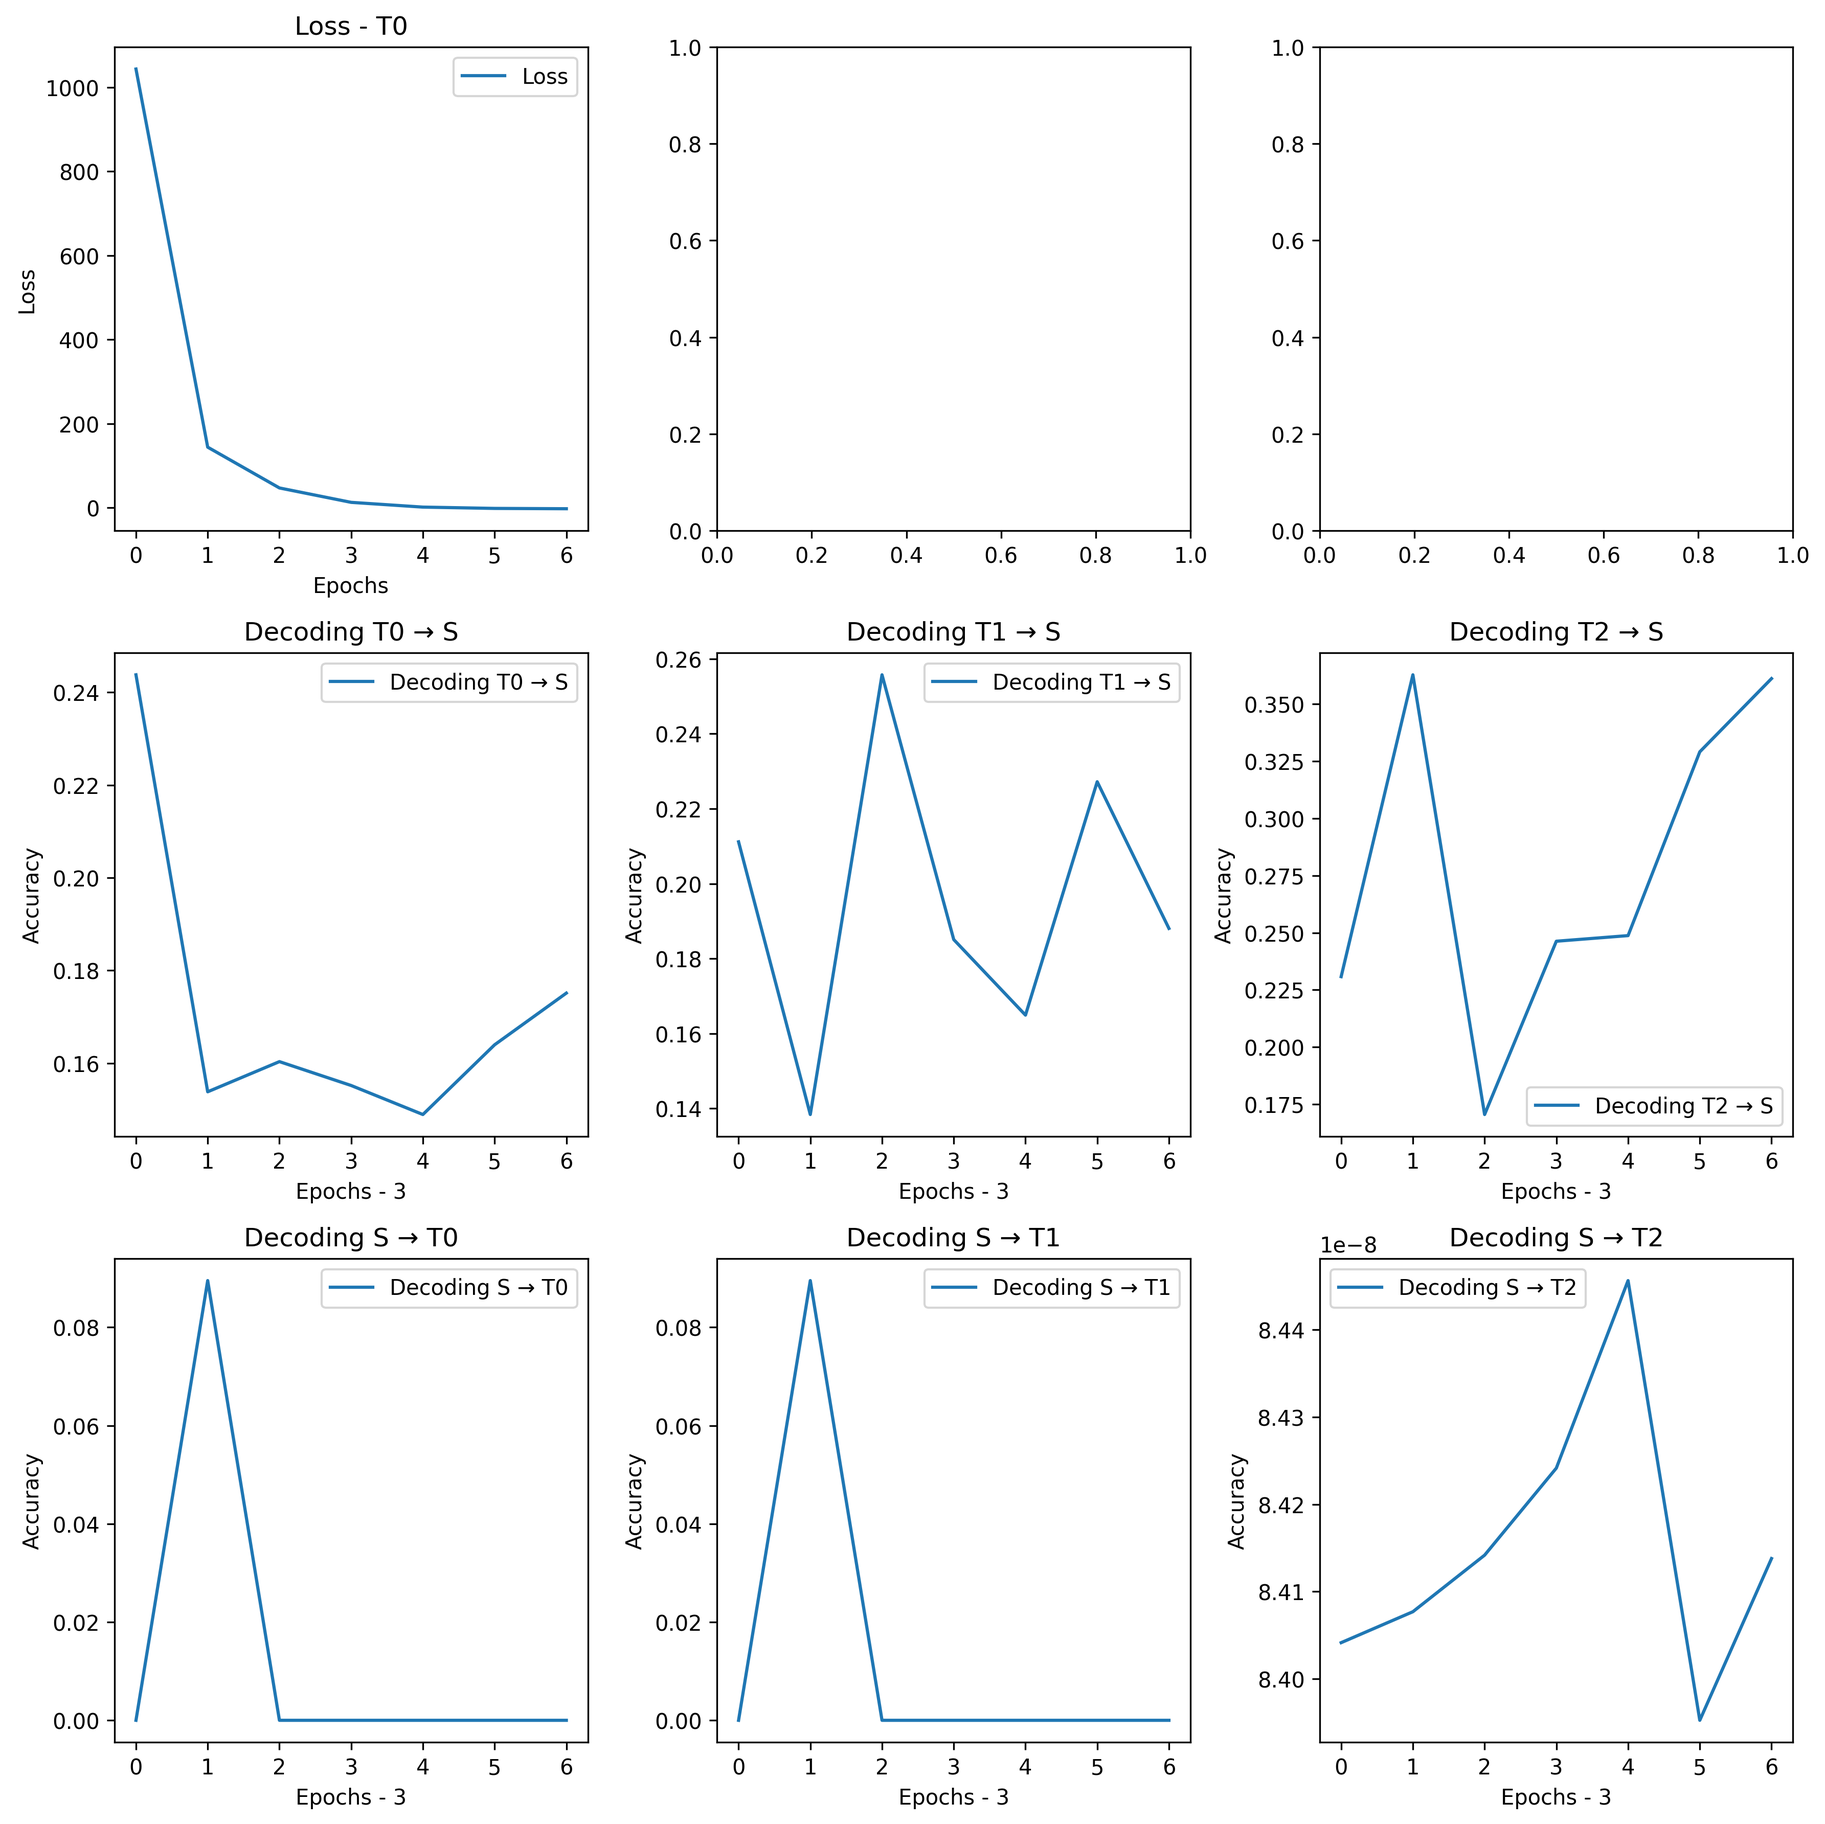
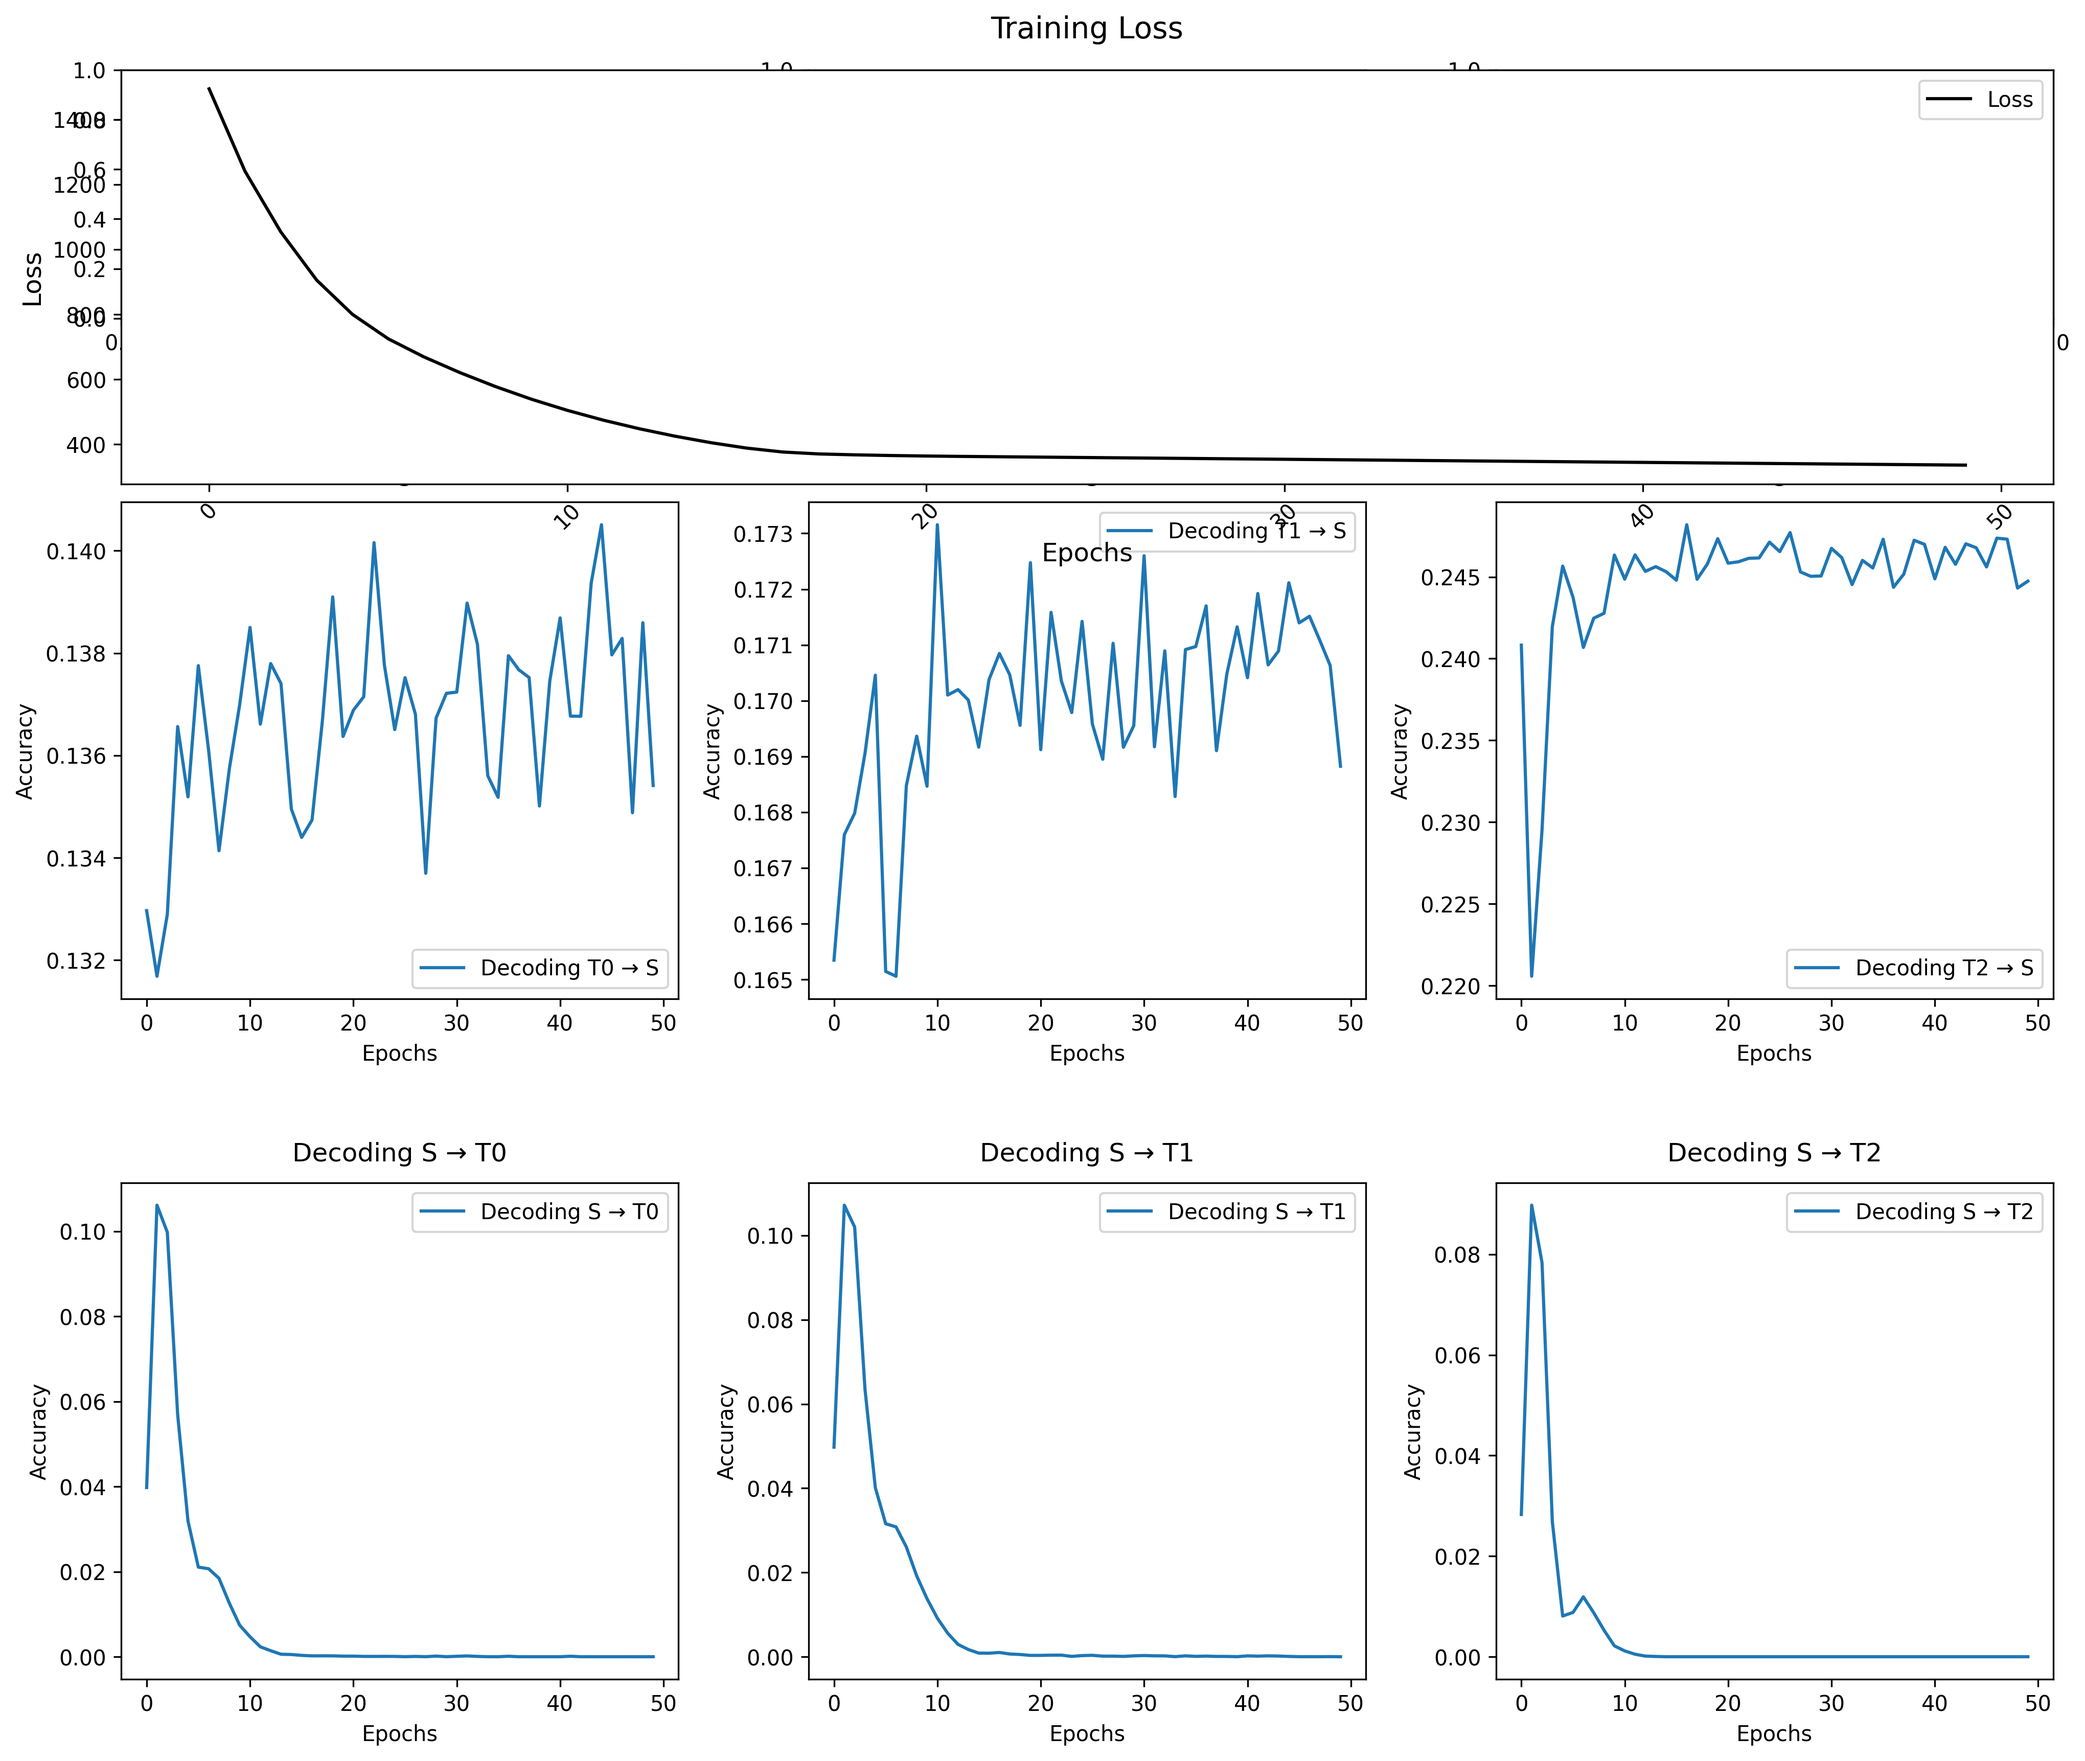
Proper looking results in graph. Loss design could be improved

diff --git a/hmmST.py b/hmmST.py
@@ -4,6 +4,7 @@ import sys
 import scipy.stats
 import numpy as np
 import pandas as pd
+import optax
 from add_extraneous import *
 # from IPython.display import display
 
@@ -108,6 +109,7 @@ def initial():
     return initial_probs, transition_matrix, emission_means, emission_covs
 
 
+
 'Initialize HMMs'
 def init_teachers():
     initial_probs, transition_matrix, emission_means, emissions_cov = initial()
@@ -164,6 +166,7 @@ def generate_data_from_model(model, params, key, NUM_TRIALS, NUM_TIMESTEPS):
     return T0_states, emissions
 
 
+
 'Generate datasets for training and testing'
 def dgen(teachers):
     dataset = []
@@ -179,23 +182,31 @@ def dgen(teachers):
 
 
 
-
 'Train/fit the HMMs'
-def train(teachers, S, S_props, hmm_student):  #can also try with .fit_em #TODO: max epoch = 10 
-    fit = lambda hmm_class, params, props, emissions : zip(*[hmm_class.fit_sgd(param, prop, emissions) for param, prop in zip(*[params, props])])
+def train(teachers, S, S_props, hmm_student):  #can also try with .fit_em
+    fit = lambda hmm_class, params, props, emissions : zip(*[hmm_class.fit_sgd(param, prop, emissions, num_epochs=1, optimizer=optax.adam(1e-5)) for param, prop in zip(*[params, props])]) # for fit_em use max_iter
     teacher_fit = lambda hmm_class, params, props, emissions : hmm_class.fit_sgd(params, props, emissions) 
 
 
     loss        = []
     decodingST  = []
     decodingTS  = []
-    for _ in range(NUM_EPOCHS):
-        S, l   = fit(hmm_student, S, S_props, teachers[0][1])
-        loss = np.array(l) if len(loss) == 0 else np.concatenate((loss, l), axis=0)
+    for i in range(NUM_EPOCHS):
+        print(f'checkpoint - train - iteraion: {i}')
+
+        print(f'checkpoint - train - loss : {loss}')
         for model in S:
             decodingST.append([decoding(hmm_student, model, HMM, T, test) for T, train, test in teachers])
+            print(f'checkpoint - train - decoding TS : {decodingST}')
             decodingTS.append([decoding(HMM, T, hmm_student, model, test) for T, train, test in teachers])
+            print(f'checkpoint - train - decoding ST : {decodingTS}')
 
+        S, l   = fit(hmm_student, S, S_props, teachers[0][1])
+        loss = np.array(l) if len(loss) == 0 else np.concatenate((loss, l), axis=0)
+        print(f'checkpoint - train - end of iteration')
+
+
+    print(f'l = {loss},  {decodingST} ,  {decodingTS}  ')
     
     # S1, _   = fit(hmm_student, S, S_props, teachers[1][1])
     # S00, _  = fit(hmm_student, S0, S_props, teachers[0][1])
@@ -206,7 +217,6 @@ def train(teachers, S, S_props, hmm_student):  #can also try with .fit_em #TODO:
 
     # return S0, S1, S00, S01, S11
     return loss, decodingST, decodingTS
-
 
 
 
@@ -242,6 +252,7 @@ def rm_null(results):
     # return results, removed
 
 
+
 'Convert dict to DF'
 def df_conv(results):  
     result = {}
@@ -269,6 +280,7 @@ def df_conv(results):
         df.to_csv(f'Params likelihood S->T.csv') if i == 0 else df.to_csv(f'Params likelihood T->S.csv')
     
     return df
+
 
 
 def likelihood(students, teachers):
@@ -359,47 +371,34 @@ def decode(students, teachers):
 
 
 if __name__ == '__main__':
+    print('checkpoint 1')
 
-    # if True:
-        # results = load_csv()
+    # # if True:
+    #     # results = load_csv()
 
-    # else: 
-    T0, T1, T2 = init_teachers()
-    teachers = [T0, T1, T2]
-    teachers = dgen(teachers)
+    # # else: 
+    # T0, T1, T2 = init_teachers()
+    # teachers = [T0, T1, T2]
+    # teachers = dgen(teachers)
 
-    # students shape : [S0_minStates, S1_minStates, ... Sk_minStates, S0_minStates+1, S1_minStates+1, ...]
-    students = []
-    for num in range(MIN_S_STATE, MAX_S_STATE):
-        hmm_student = GaussianHMM(num, EMISSION_DIM)
-        S, S_props = zip(*[hmm_student.initialize(jr.PRNGKey(key)) for key in range(STUDENTS_NUM)])
-        # students_data = train(teachers, S, S_props, hmm_student)
-        # students.extend([s, hmm_student] for s in students_data)
-        loss, decodingST, decodingTS = train(teachers, S, S_props, hmm_student)
+    # print('checkpoint 2')
+    # # students shape : [S0_minStates, S1_minStates, ... Sk_minStates, S0_minStates+1, S1_minStates+1, ...]
+    # students = []
+    # for num in range(MIN_S_STATE, MAX_S_STATE):
+    #     hmm_student = GaussianHMM(num, EMISSION_DIM)
+    #     S, S_props = zip(*[hmm_student.initialize(jr.PRNGKey(key)) for key in range(STUDENTS_NUM)])
+    #     # students_data = train(teachers, S, S_props, hmm_student)
+    #     # students.extend([s, hmm_student] for s in students_data)
+    #     print('checkpoint 3')
+    #     loss, decodingST, decodingTS = train(teachers, S, S_props, hmm_student)
 
+    # print('checkpoint 4')
 
-
-    plot_decodingEpochs(loss, decodingST, decodingTS, num_epochs=NUM_EPOCHS)
-
-
-    
-    #New code - will use later on
-    # students = create_students(T0, STUDENTS_NUM)
-    # for s in students:
-    #     students_data = train(teachers, s, S_props, hmm_student)
+    # plot_decodingEpochs(loss, decodingST, decodingTS, num_epochs=NUM_EPOCHS)
 
 
-    # score = pd.DataFrame({'model to model' : decoding(students[0][1], students[0][0][0], HMM, T0, teachers[0][2], "model_to_model.png")})
-    # results = decode(students, teachers)
-        # for df in results:
-            # print(f'{df}')
+    plot_decodingEpochs(None, None, None, num_epochs=NUM_EPOCHS)
 
-        # print(score)
-
-        # df, removed_students = likelihood(students, teachers)
-
-        # print(df)
-        # print(f'\nRemoved models with low performance: {removed_students}')
 
 
 
@@ -418,15 +417,34 @@ if __name__ == '__main__':
 
 #TODO Long term
 '''
+0. Deep thinking and reasoning (w/ gpt?) about what’s next
+0.1 Zoom in on the first epoch - reduce number of iteratios (see message from KABI)
 1. Decode with likelihood- how are the students (different seed) changes over the epochs during fit?
 2. Then train on T1, T2... and train S0 again on T1
 3. try changing perturbation for an optimization one (like SGD), and add more T0 teachers (different seeds)
+4. add cross decoding ?
 
 Goal - find a model that does well on T1, should also do reasonably well on T0 or vice versa?
 
 
+TODO - Specific tasks, keep an open mind (Can be CHANGED!)
+1. Imporove style of graphs, plan ahead to make it easier before second run with data/new students
+2. Add students like before
+3. Add some teachers? perhaps with different perturbations
+Go to step 5 - to test for each epoch, rewrtie train(..) function : hmm_class.fit_em(params, prop, emissions, num_iters=1) , i.e. NUM_EPOCHS=1, and add a loop, and test each epoch ->
+Create a good student - duplciate teacher, and add some states I cannot rach (sanity check that it works)
 
-Alternatives:
+
+TODO - side taskquests
+- Update add_extranaous ring func to fit the new HMM. Use GPT
+
+1. In debug mode- how to run from a specific line while keeping the state? 
+2. Hot decode/reload ? Ask Community
+3. Finish all todo's quests
+
+
+
+Alternative tasks (archive):
 . ! Plan/compute algo for generalizing students (s_1..1,s_1..2...?) for 5 teachers (T5) - combinatorics computation:
 1->x->y where y>=x>=1
 . Generalize teachers and students using the algorithms I developed and evaluate on an unseen teacher T6
@@ -437,26 +455,6 @@ Alternatives:
 . Check dynamax and Claude for how to pertub teachers properly (so the likelihood won't surpass the teacher? Or perhaps it is ok) VX - return to this step
 
 
-TODO - side taskquestsa
-1. In debug mode- how to run from a specific line while keeping the state? 
-... Hot decode ? Ask Community
-
-2. Table shows students only good on one teacher and 0 on the other, and one teacher good on all?
-3. Cross decoding afterwards
-'''
-
-
-'''
-What have I done:
-1.  Perturbed teachers?
-2.  Trained, evaluated, and compared students and teachers over teachers...
-3.  Visualized initial true params emissions
-    Evaluate all on unseen teacher T3 V
-    Repeating each curriculum with many randomly initialized students. V
-    Visualize results: Use rings on teacher's data, and graph the dataframe's data V
-    Generalize student S_l V
-    Keep function extractions and organizations for teachers, etc. V
-    Fix 2D plotting V
 
 '''
 

diff --git a/visualize.py b/visualize.py
@@ -3,48 +3,75 @@ import jax.numpy as jnp
 import networkx as nx
 import matplotlib.pyplot as plt
 from dynamax.utils.plotting import CMAP, COLORS, white_to_color_cmap
+import pandas as pd
+import os
 
 from hmmST import *
 
 
 'Plot with X = epochs, Y= decoding per teacher and likelihood'
-def plot_decodingEpochs(loss, decodingST, decodingTS, num_epochs):
-    epochs = [i for i, _ in enumerate(loss)]  # Adjusting epochs as requested
+def plot_decodingEpochs(loss, decodingST, decodingTS, num_epochs, csv_file="decoding_results.csv"):
+    if os.path.exists(csv_file):
+        print(f"Loading data from {csv_file}...")
+        df = pd.read_csv(csv_file)
+        epochs = df['Epoch'].tolist()
+        mean_loss = df['Mean_Loss'].tolist()
+        decodingST = df[['Decoding_T0_S', 'Decoding_T1_S', 'Decoding_T2_S']].values.tolist()
+        decodingTS = df[['Decoding_S_T0', 'Decoding_S_T1', 'Decoding_S_T2']].values.tolist()
+    else:
+        print(f"Saving data to {csv_file}...")
+        epochs = list(range(len(loss)))
+        mean_loss = [np.mean(epoch[0]).item() for epoch in loss]
 
-    fig, axes = plt.subplots(3, 3, figsize=(12, 12))
-    titles = ['T0', 'T1', 'T2']
-    
-    
-    mean_loss = [np.mean(epoch[0]).item() for epoch in loss]
+        # Convert decodingST and decodingTS to DataFrame
+        df_data = {
+            'Epoch': epochs,
+            'Mean_Loss': mean_loss,
+            'Decoding_T0_S': [d[0] for d in decodingST],
+            'Decoding_T1_S': [d[1] for d in decodingST],
+            'Decoding_T2_S': [d[2] for d in decodingST],
+            'Decoding_S_T0': [d[0] for d in decodingTS],
+            'Decoding_S_T1': [d[1] for d in decodingTS],
+            'Decoding_S_T2': [d[2] for d in decodingTS]
+        }
 
-    # Plot los
-    axes[0, 0].plot(epochs, mean_loss, label='Loss')
-    axes[0, 0].set_title(f'Loss - {titles[0]}')
-    axes[0, 0].set_xlabel('Epochs')
-    axes[0, 0].set_ylabel('Loss')
-    axes[0, 0].legend()
+        df = pd.DataFrame(df_data)
+        df.to_csv(csv_file, index=False)
+
+    # Plotting
+    fig, axes = plt.subplots(3, 3, figsize=(14, 12), gridspec_kw={'height_ratios': [1, 2, 2]})
+
+    # Loss Plot
+    ax_loss = fig.add_subplot(3, 1, 1)
+    ax_loss.plot(epochs, mean_loss, label='Loss', color='black')
+    ax_loss.set_title('Training Loss', fontsize=14, pad=15)
+    ax_loss.set_xlabel('Epochs', fontsize=12)
+    ax_loss.set_ylabel('Loss', fontsize=12)
+    ax_loss.legend()
+    ax_loss.xaxis.set_tick_params(rotation=45)
+
+    # Adjust subplot spacing
+    plt.subplots_adjust(hspace=0.4, wspace=0.3)
 
     # Plot decoding T -> S
     for i in range(3):
         axes[1, i].plot(epochs, [d[i] for d in decodingST], label=f'Decoding T{i} → S')
-        axes[1, i].set_title(f'Decoding T{i} → S')
-        axes[1, i].set_xlabel('Epochs - 3')
+        axes[1, i].set_title(f'Decoding T{i} → S', fontsize=12, pad=10)
+        axes[1, i].set_xlabel('Epochs')
         axes[1, i].set_ylabel('Accuracy')
         axes[1, i].legend()
 
     # Plot decoding S -> T
     for i in range(3):
         axes[2, i].plot(epochs, [d[i] for d in decodingTS], label=f'Decoding S → T{i}')
-        axes[2, i].set_title(f'Decoding S → T{i}')
-        axes[2, i].set_xlabel('Epochs - 3')
+        axes[2, i].set_title(f'Decoding S → T{i}', fontsize=12, pad=10)
+        axes[2, i].set_xlabel('Epochs')
         axes[2, i].set_ylabel('Accuracy')
         axes[2, i].legend()
 
-    plt.tight_layout()
+    plt.tight_layout(rect=[0, 0, 1, 0.97])
     plt.savefig('./DecodingLossEpochs.png', dpi=300, bbox_inches='tight')
     plt.show()
-
-
 
 
 'Visualize performances'

diff --git a/macros.py b/macros.py
@@ -3,9 +3,9 @@ from dynamax.hidden_markov_model import GaussianHMM
 NUM_TRAIN_BATCHS  = 3
 NUM_TEST_BATCHS    = 1
 
-NUM_EPOCHS          = 7 #Increase the pochs before addin , num_iters=NUM_EPOCHS to fit_em
-NUM_TIMESTEPS       = 10
-NUM_TRIALS          = 10
+NUM_EPOCHS          = 50 #Increase the pochs before addin , num_iters=NUM_EPOCHS to fit_em or num_epochs=... for fit_sgd
+NUM_TIMESTEPS       = 1000
+NUM_TRIALS          = 100
 STUDENTS_NUM        = 1
 
 

diff --git a/README.md b/README.md
@@ -1,0 +1,12 @@
+What have I done/tried so far:
+1.  Perturbed teachers?
+2.  Trained, evaluated (likelihood), and compared students and teachers over teachers...
+3.  Visualized initial true params emissions
+    Evaluate all on unseen teacher T3 V
+    Repeating each curriculum with many randomly initialized students. V
+    Visualize results: Use rings on teacher's data, and graph the dataframe's data V
+    Generalize student S_l V
+    Keep function extractions and organizations for teachers, etc. V
+    Fix 2D plotting V
+4. Added decoding
+5. Tried lower learning rate, and reducing/increasing epochs to analyse behavior
